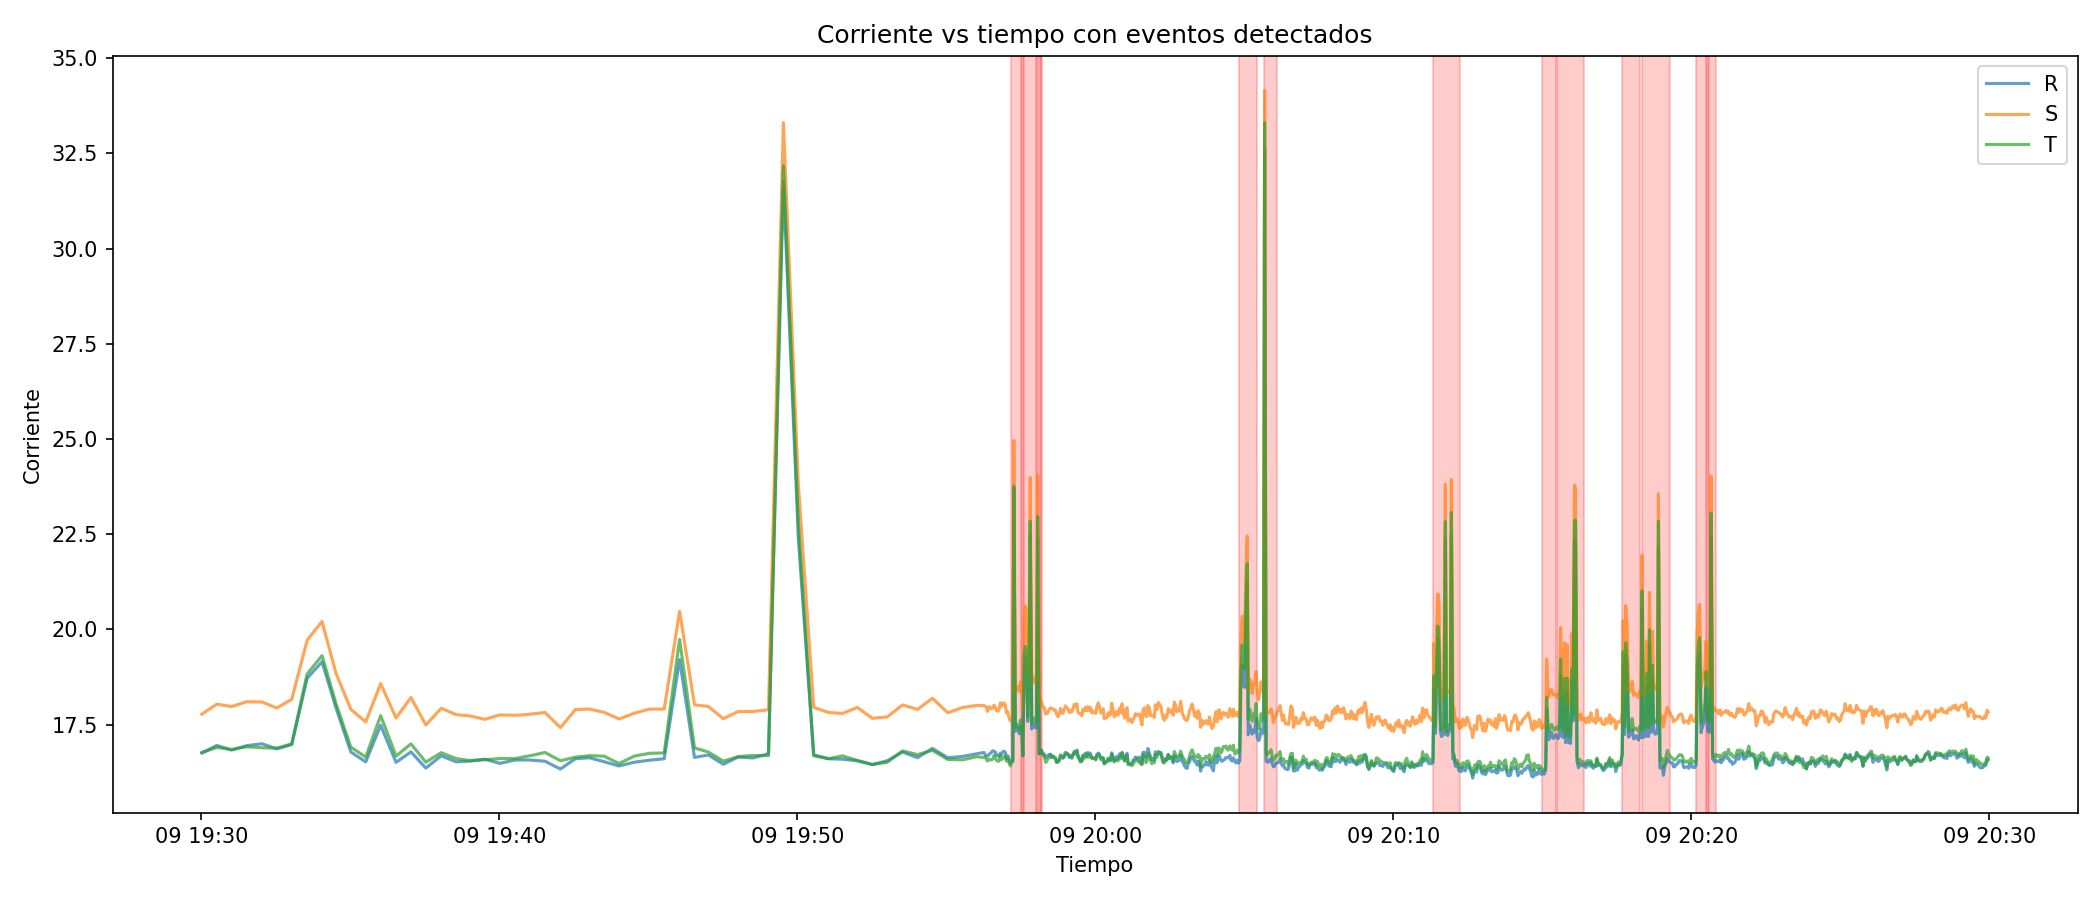
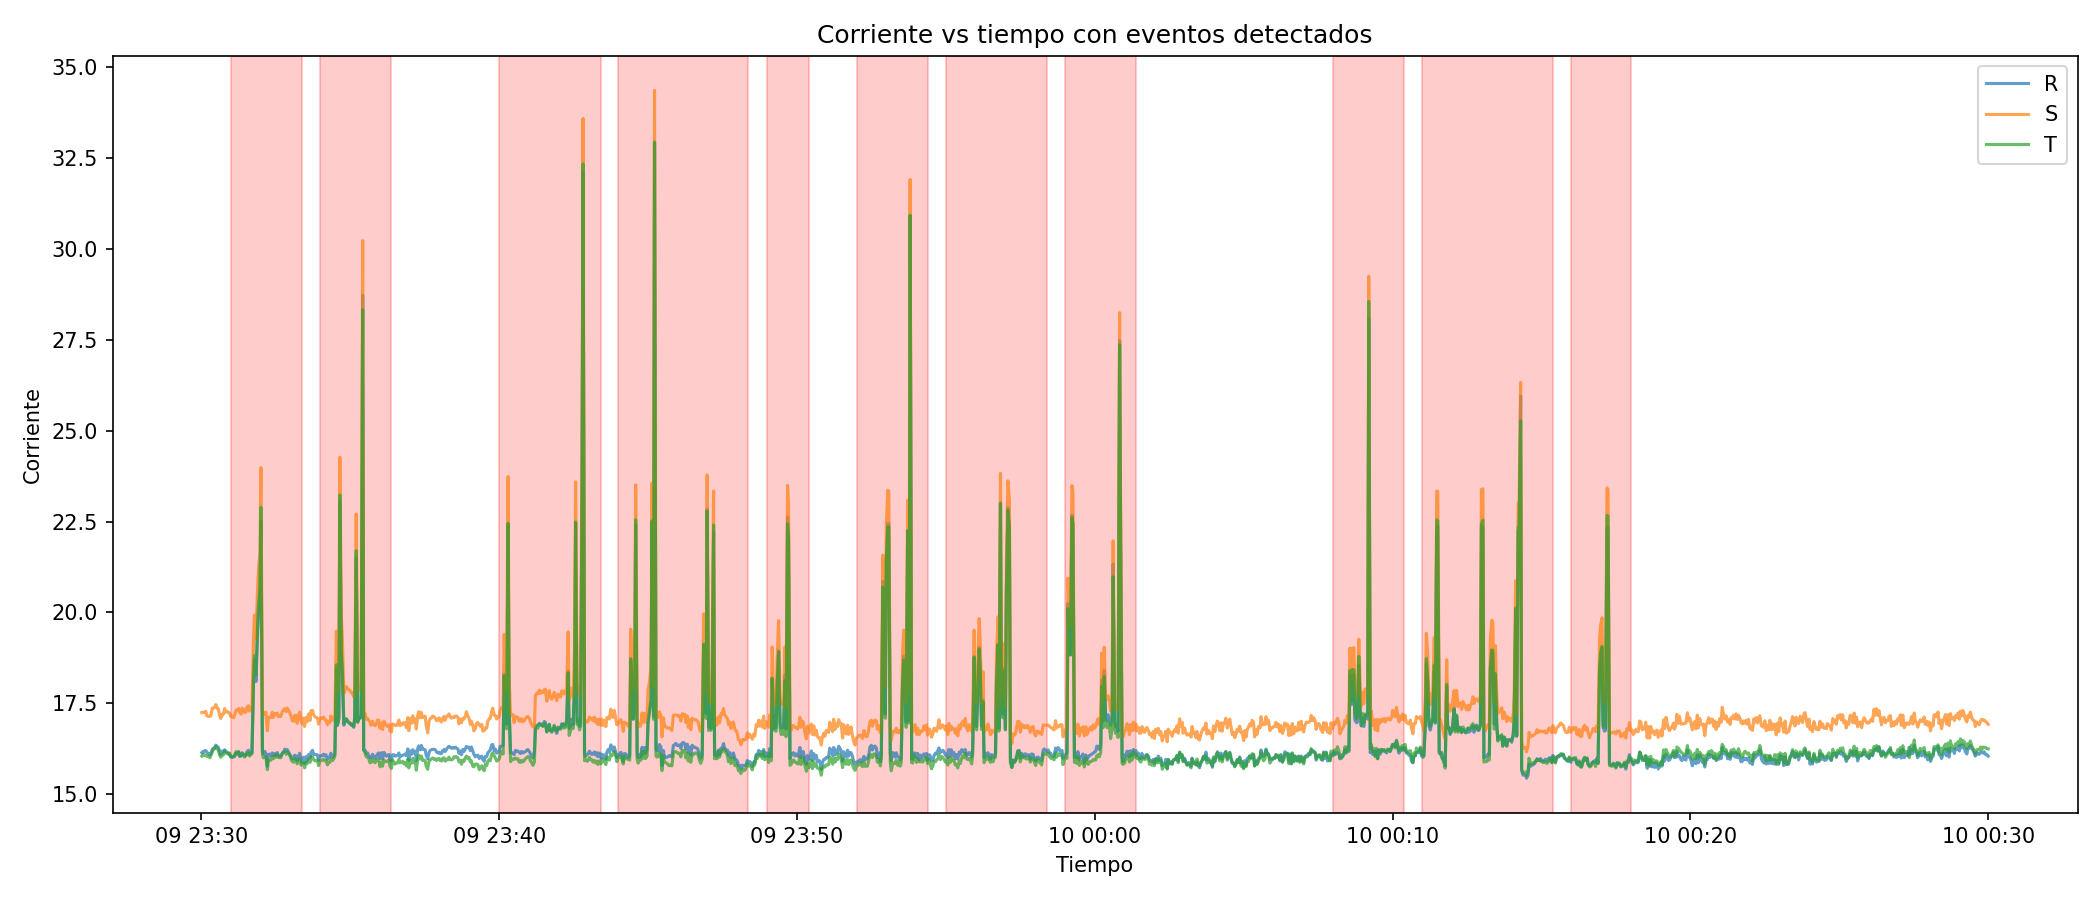
Deteccion de eventos finalizada.

diff --git a/analiticas_powermeter/analiticas_datos_electricos.py b/analiticas_powermeter/analiticas_datos_electricos.py
@@ -103,15 +103,14 @@ def obtener_ultimo_hasta_ejecutado(conn, numero_serie, id_analitica, desde, hast
 def obtener_datos_desde_hasta(conn, numero_serie, desde, hasta):
     query = """
     SELECT
-        temporal_placa,
-        corriente_r,
-        corriente_s,
-        corriente_t
+        "temporal_placa",
+        "corriente_r",
+        "corriente_s",
+        "corriente_t"
     FROM data_instantanea
     WHERE numero_serie = %s
     AND temporal_placa BETWEEN %s AND %s
     ORDER BY temporal_placa
-    LIMIT 1000;
     """
     with conn.cursor() as cur:
         cur.execute(query, (numero_serie, desde, hasta))
@@ -179,67 +178,22 @@ def upsert_analiticas_plegadoras(
 ):
     with conn.cursor() as cur:
         cur.execute("""
-            SELECT id, inicio, valor
-            FROM analiticas_plegadoras
-            WHERE numero_serie = %s
-              AND fin IS NULL
-            ORDER BY inicio DESC
-            LIMIT 1
-        """, (numero_serie,))
-
-        row = cur.fetchone()
-
-        if row:
-            id_evento, inicio_evento, valor_actual = row
-
-            nueva_duracion = int(
-                (fin - inicio_evento).total_seconds()
-            ) if fin else duracion
-
-            nuevo_valor = (
-                max(valor_actual, valor)
-                if valor_actual is not None and valor is not None
-                else valor or valor_actual
-            )
-
-            cur.execute("""
-                UPDATE analiticas_plegadoras
-                SET
-                    fin = %s,
-                    duracion = %s,
-                    valor = %s,
-                    temporal_server = CURRENT_TIMESTAMP
-                WHERE id = %s
-            """, (
-                fin,
-                nueva_duracion,
-                nuevo_valor,
-                id_evento
-            ))
-
-        else:
-            cur.execute("""
-                INSERT INTO analiticas_plegadoras (
-                    numero_serie,
-                    inicio,
-                    fin,
-                    duracion,
-                    valor
-                )
-                VALUES (%s, %s, %s, %s, %s)
-                RETURNING id;
-            """, (
+            INSERT INTO analiticas_plegadoras (
                 numero_serie,
                 inicio,
                 fin,
                 duracion,
-                valor
-            ))
-
-            id_evento = cur.fetchone()[0]
-
-    return id_evento
-
+                valor,
+                temporal_server
+            )
+            VALUES (%s, %s, %s, %s, %s, CURRENT_TIMESTAMP)
+        """, (
+            numero_serie,
+            inicio,
+            fin,
+            duracion,
+            valor
+        ))
 
 # Insertar alarmas de evento
 def insertar_alarma_evento(
@@ -306,7 +260,12 @@ def delta_corriente_por_ventana(grupos, fase):
         i_min="min"
     ).reset_index()
 
-    df_agg["delta_corriente"] = df_agg["i_max"] - df_agg["i_min"]
+  # para matar picos negativos
+    baseline = df_agg["i_min"].rolling(
+        window=3, min_periods=1
+    ).median()
+
+    df_agg["delta_corriente"] = df_agg["i_max"] - baseline
 
     return df_agg
 
@@ -416,7 +375,7 @@ def consolidar_eventos_maquina(
         df_ev = df.iloc[i_ini:i_fin].copy()
 
         if df_ev.empty:
-            # sin datos → cerramos 
+            # sin datos → cerramos conservadoramente
             eventos_maquina.append(actual)
             actual = {
                 "inicio": ev["inicio"],
@@ -521,8 +480,18 @@ def calcular_analiticas(
     tiempo_estable_s
 ):
     if df_m.empty:
-        return [] 
+        return []
+      
+    df_m = recortar_rango_operativo_por_corriente(
+            df_m,
+            fase="r",               # o la fase que prefieras como referencia
+            umbral_corriente=umbral_delta,  # coherente con tu detección
+            min_muestras=2          # para picos, 2 suele andar mejor que 3
+        )
 
+    if df_m.empty:
+        return []
+        
     ventanas = generar_ventanas(df_m, win_s)
 
     deltas = {
@@ -535,7 +504,10 @@ def calcular_analiticas(
 
     for fase, df_delta in deltas.items():
         registros = [
-            {"t_inicio": row.temporal_placa, "delta_corriente": row.delta_corriente}
+            {
+                "t_inicio": row.temporal_placa,
+                "delta_corriente": row.delta_corriente
+            }
             for row in df_delta.itertuples(index=False)
         ]
 
@@ -550,10 +522,10 @@ def calcular_analiticas(
         eventos_por_fase["T"]
     )
 
-    eventos_cerrados = consolidar_eventos_maquina(
+    eventos_cerrados= consolidar_eventos_maquina(
         eventos_fase=eventos_fase,
         df=df_m,
-        fase="r",
+        fase='r',
         ventana_media_s=ventana_media_s,
         tolerancia_rel=tolerancia_rel,
         tiempo_estable_s=tiempo_estable_s
@@ -681,7 +653,6 @@ if __name__ == "__main__":
                     fin = ev["fin"]
 
                     duracion = int((fin - inicio).total_seconds())
-
                     if duracion <= 0 or duracion > duracion_max_evento:
                         continue
 

diff --git a/analiticas_powermeter/graficas_analiticas_datos_electricos.py b/analiticas_powermeter/graficas_analiticas_datos_electricos.py
@@ -16,11 +16,11 @@ conn = psycopg2.connect(
     password=os.environ.get("DB_PASS", "AnaliticasDB25"),
 )
 
-numero_serie = "28562F60A8D8"
-#numero_serie = "28562F612CC4"
+#numero_serie = "28562F60A8D8"
+numero_serie = "28562F612CC4"
 
-desde = datetime(2026, 1, 9, 19, 30, tzinfo=pytz.UTC)
-hasta = datetime(2026, 1, 9, 20, 30, tzinfo=pytz.UTC)
+desde = datetime(2026, 1, 9, 21, 30, tzinfo=pytz.UTC)
+hasta = datetime(2026, 1, 9, 22, 30, tzinfo=pytz.UTC)
 
 q_corriente = """
 SELECT temporal_placa, corriente_r, corriente_s, corriente_t
